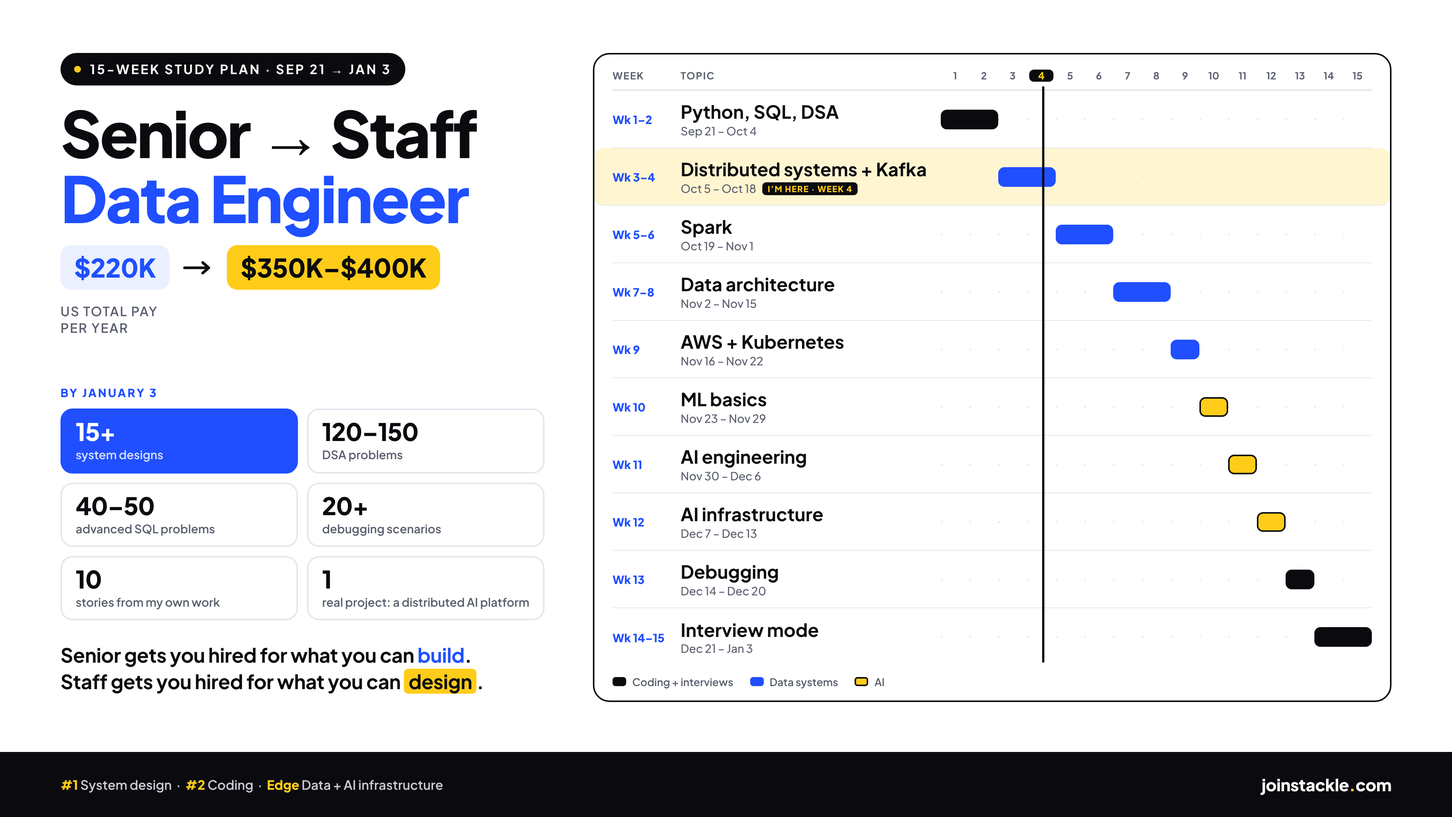
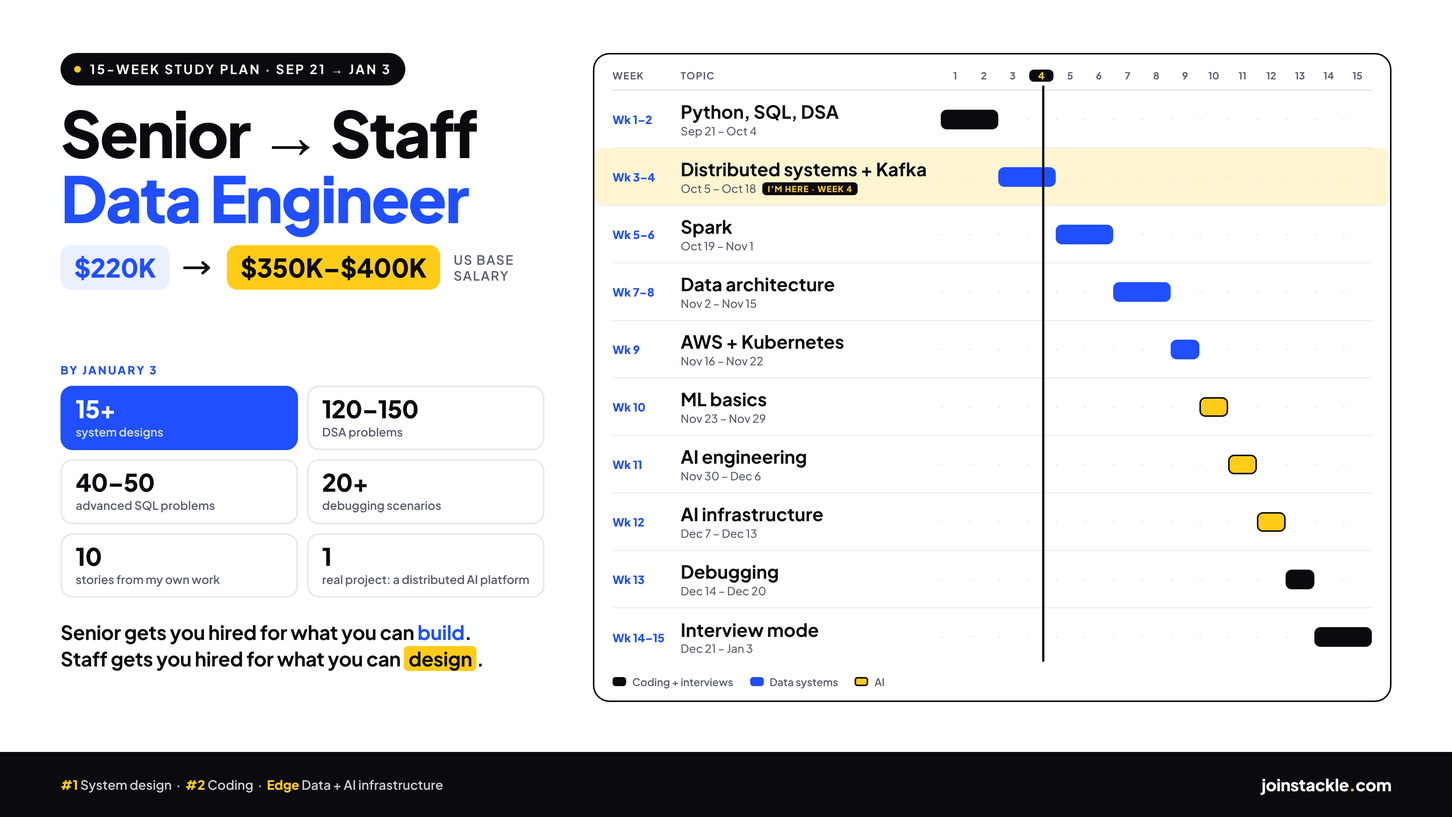
Rewrite Senior to Staff script with sourced pay and Hormozi rhythm
Pay is framed as base salary (Levels.fyi Meta E5 average base and the
posted ranges), and the roadmap image label now says base salary.

Claude-Session: https://claude.ai/code/session_01J7uUwrP8LBDCmbx24NcmAV

Changed region(s): [[0.0312, 0.4343, 0.375, 0.8685], [0.0312, 0.3722, 0.0938, 0.4032], [0.3125, 0.3102, 0.3438, 0.3412]]

diff --git a/stackle-video/source/roadmap-staff-de.html b/stackle-video/source/roadmap-staff-de.html
@@ -98,7 +98,7 @@ body.wide footer{padding:0 80px;height:86px}
     <span class="chip from">$220K</span>
     <svg viewBox="0 0 40 20"><path d="M2 10h32M26 3l8 7-8 7" stroke="#0B0B0F" stroke-width="3.5" fill="none" stroke-linecap="round" stroke-linejoin="round"/></svg>
     <span class="chip to">$350K–$400K</span>
-    <span class="tag">US total pay<br>per year</span>
+    <span class="tag">US base<br>salary</span>
   </div>
 </div>
 

diff --git a/stackle-video/scripts/senior-to-staff-de-plan.md b/stackle-video/scripts/senior-to-staff-de-plan.md
@@ -1,6 +1,12 @@
 # Senior to Staff Data Engineer, My 15-Week Plan: script
 
-DRAFT, numbers and job postings pending research.
+{{HEADER}}
+
+---
+
+{{BRIEF}}
+
+---
 
 ## Script
 
@@ -8,7 +14,9 @@ DRAFT, numbers and job postings pending research.
 
 **[On camera]**
 
-A staff data engineer in the US can earn {{STAFF_PAY}} a year, and a senior data engineer earns about {{SENIOR_PAY}}. I'm a senior data engineer at Meta, and I'm studying for that jump right now. In this video, I'm going to show you my exact fifteen-week plan, the three jobs I'm preparing for, how I'm rewriting my resume for them, and how I'm getting my interview stories ready. And you can copy all of it.
+I'm a senior data engineer at Meta, where the average base salary at my level is about two hundred twenty thousand dollars a year. The staff-level data jobs I'm going after at AI companies pay three hundred fifty to four hundred thousand in base salary, and some pay more. So I'm studying for that jump right now. In this video, I'm going to show you my fifteen-week plan, the three real jobs I'm preparing for, how I'm rewriting my resume for them, and how I'm getting my interview stories ready. You can copy all of it.
+
+**[Card beside you: "Senior data engineer, Meta: about $220K base" → "Staff data jobs at AI companies: $350K–$400K+ base"]**
 
 ### Intro
 
@@ -22,29 +30,33 @@ If you are new here, I am Chris. I have worked in data engineering for more than
 
 **[On camera]**
 
-So let's start with why this jump is so big, because staff isn't the same job with a bigger number. I've been on the hiring side for years, and the simplest way I can put it is this. Senior gets you hired for what you can build. Staff gets you hired for what you can design.
+So let's start with why this jump is so big, because staff isn't the same job with a bigger number. I've interviewed a lot of engineers, and the simplest way I can put it is this. Senior gets you hired for what you can build. Staff gets you hired for what you can design.
 
 **[PAUSE] [Graphic 1, full screen: "Senior: hired for what you can build" beside "Staff: hired for what you can design"]**
 
-A senior data engineer is someone who takes a hard problem and builds it well, like a pipeline that moves a billion rows a day without breaking. A staff data engineer decides how all the pipelines should fit together, across many teams, before anyone writes the code. {{LADDER_QUOTE}}
+A senior data engineer takes a hard problem and builds it well, like a pipeline that moves a billion rows a day without breaking. A staff data engineer decides how all the pipelines should fit together, across many teams, before anyone writes the code.
+
+**[PAUSE] [Graphic 2, full screen: Dropbox career framework, "Staff Data Engineer: I set the multi-year, multi-team technical and data strategy"]**
+
+And you don't have to take my word for it. Dropbox publishes its engineering levels online, and its staff data engineer level says, "I set the multi-year, multi-team technical and data strategy." Multi-year and multi-team are the words that matter there. A senior engineer usually owns one team's goals for the next six months to a year.
 
 **[PAUSE]**
 
 **[Card beside you: "3 teams, 3 copies of the same customer data"]**
 
-So let's say three teams each build their own copy of the same customer data. A senior engineer builds a really good copy for their own team. A staff engineer notices there are three copies, designs one shared table all three can use, and gets all three teams to agree on it. And so the work moves from writing the code to making the decision.
+So let's say three teams each build their own copy of the same customer data. A senior engineer builds a really good copy for their own team. A staff engineer notices there are three copies. They design one shared table, and they get all three teams to agree to use it. And so the hard part isn't the code anymore. It's the decision.
 
-**[PAUSE] [Graphic 2, full screen: "#1 System design", "#2 Coding", "How I stand out: data + AI infrastructure"]**
+**[PAUSE] [Graphic 3, full screen: "#1 System design", "#2 Coding", "How I stand out: data + AI infrastructure"]**
 
-And that's why my plan has a clear order of priorities. Number one is system design, because that's the skill that changes the most between senior and staff. Number two is coding, because you still have to pass the coding rounds, and nobody skips those. And the way I plan to stand out is data and AI infrastructure, because {{AI_INFRA_REASON}}.
+And so my plan has a clear order of priorities. Number one is system design, because that's the skill that changes the most between senior and staff. Number two is coding, because you still have to pass the coding rounds. Nobody gets to skip those. And the way I plan to stand out is data and AI infrastructure. The AI companies are hiring data engineers to build the pipelines that feed their models, and I'll show you three of those jobs later.
 
 **[PAUSE]**
 
 ### Part 2: The fifteen-week plan
 
-**[PAUSE] [Graphic 3, full screen: the 15-week roadmap, 16:9 version (roadmap-staff-de-16x9.png)]**
+**[PAUSE] [Graphic 4, full screen: the 15-week roadmap (roadmap-staff-de-16x9.png)]**
 
-So here's the plan. It runs fifteen weeks, from September twenty-first to January third, and right now I'm in week four. I've split it into four blocks, and I'll take you through them in order.
+So here's the plan. It runs fifteen weeks, from September twenty-first to January third. Right now, I'm in week four. I've split the plan into four blocks.
 
 **[PAUSE]**
 
@@ -52,27 +64,27 @@ So here's the plan. It runs fifteen weeks, from September twenty-first to Januar
 
 **[Card beside you: "Weeks 1–2: Python, SQL, DSA"]**
 
-Block one is the coding base, in weeks one and two, and it's Python, SQL, and DSA. DSA just means data structures and algorithms, which are the coding puzzles most big companies still ask, like merging a list of meetings that overlap. I put coding first because it fades fast when you stop. And so I start the daily habit in week one, and I keep doing a few problems every week until the end.
+Block one is the coding base, in weeks one and two. That's Python, SQL, and DSA. DSA just means data structures and algorithms, which are the coding puzzles big companies still ask, like merging a list of meetings that overlap. For pure data engineer jobs, the coding round is often lighter, with more lists and dictionaries than hard puzzles. But two of my three target jobs have "software engineer" in the title, so I'm preparing for the harder version. And because coding fades fast when you stop, I keep doing a few problems every week until the end.
 
 #### Block two: Data systems (weeks 3 to 9)
 
-**[PAUSE] [Graphic 4, full screen: weeks 3 to 9 highlighted on the roadmap, with one line under each: "Kafka: moves events between systems as they happen", "Spark: splits huge data jobs across many machines", "Data architecture: how the whole platform fits together", "AWS: Amazon's cloud", "Kubernetes: runs and restarts your programs across many machines"]**
+**[PAUSE] [Graphic 5, full screen: weeks 3 to 9 highlighted on the roadmap, one line under each: "Kafka: moves events between systems as they happen", "Spark: splits huge data jobs across many machines", "Data architecture: how the whole platform fits together", "AWS: Amazon's cloud", "Kubernetes: runs your programs and restarts them when they crash"]**
 
-Block two is data systems, in weeks three to nine, and it's the biggest block, at seven weeks. Weeks three and four are distributed systems and Kafka. A distributed system just means many machines working as one, so if one machine dies, the work keeps going. Kafka is a tool that moves streams of events between systems as they happen, like every click on a website.
+Block two is data systems, in weeks three to nine. It's the biggest block, at seven weeks. Weeks three and four are distributed systems and Kafka. A distributed system just means many machines working as one, so if one machine dies, the work keeps going. Kafka is a tool that moves streams of events between systems as they happen, like every click on a website.
 
-Weeks five and six are Spark. Spark is a tool that processes huge amounts of data by splitting the work across many machines. Weeks seven and eight are data architecture, which is how you design the whole platform: where data lands, how it's organised, and who gets to use it. And week nine is AWS and Kubernetes. AWS is Amazon's cloud, and Kubernetes is a tool that runs your programs across many machines and restarts them when they crash.
+Weeks five and six are Spark, which is a tool that processes huge amounts of data by splitting the work across many machines. Weeks seven and eight are data architecture. Data architecture is how you design the whole platform: where data lands, how it's organised, and who gets to use it. Week nine is AWS and Kubernetes. AWS is Amazon's cloud. Kubernetes runs your programs across many machines and restarts them when they crash.
 
 **[PAUSE]**
 
 **[On camera]**
 
-Block two gets seven weeks because this is what staff system design questions are made of. If an interviewer asks you to design a platform that handles a million events a second, you need Kafka, Spark, and the architecture all in your head at the same time.
+Block two gets seven weeks because staff design questions are built from exactly these pieces. Let's say an interviewer asks you to design a platform that takes in a million events a second. You need Kafka, Spark, and the architecture in your head at the same time. If one piece is weak, the whole design falls apart.
 
 #### Block three: AI (weeks 10 to 12)
 
-**[PAUSE] [Graphic 5, full screen: weeks 10 to 12 highlighted, with "ML basics: how models learn from data", "AI engineering: building products on top of large language models", "AI infrastructure: the data systems that feed and serve AI"]**
+**[PAUSE] [Graphic 6, full screen: weeks 10 to 12 highlighted, with "ML basics: how models learn from data", "AI engineering: building products on top of large language models", "AI infrastructure: the data systems that feed and serve the model"]**
 
-Block three is AI, in weeks ten to twelve. Week ten is machine learning basics, which is how models learn from data, like an inbox that learns which emails are spam. Week eleven is AI engineering, which means building products on top of large language models, the models behind tools like ChatGPT, Claude, and Gemini. And week twelve is AI infrastructure, which is where a data engineer really fits in. AI infrastructure just means the data systems around the model: the pipelines that feed it data, the systems that serve it, and the checks that stop bad data from reaching it.
+Block three is AI, in weeks ten to twelve. Week ten is machine learning basics, which is how models learn from data, like an inbox that learns which emails are spam. Week eleven is AI engineering. AI engineering means building products on top of large language models, which are the models behind ChatGPT, Claude, and Gemini. Week twelve is AI infrastructure, and this is where a data engineer really fits in. AI infrastructure just means the data systems around the model: the pipelines that feed it, the systems that serve it, and the checks that stop bad data from reaching it.
 
 **[PAUSE]**
 
@@ -80,45 +92,45 @@ Block three is AI, in weeks ten to twelve. Week ten is machine learning basics, 
 
 **[Card beside you: "Week 13: Debugging", "Weeks 14–15: Interview mode"]**
 
-Block four is getting ready to perform, in weeks thirteen to fifteen. Week thirteen is debugging, which means practising how you find and fix a broken system, like a pipeline that ran fine yesterday and is three hours late today. Weeks fourteen and fifteen are interview mode, which means full mock interviews, out loud, with a timer running.
+Block four is getting ready to perform, in weeks thirteen to fifteen. Week thirteen is debugging. Debugging practice means learning how you find and fix a broken system, like a pipeline that ran fine yesterday and is three hours late today. Weeks fourteen and fifteen are interview mode. Interview mode means full mock interviews, out loud, with a timer running.
 
 **[On camera]**
 
-And to be honest, fifteen weeks is tight, and if something slips, I'm fine stretching it to twenty. The order matters more than the dates.
+Now, fifteen weeks is tight. If something slips, I'm fine stretching the plan to twenty. The order matters more than the dates.
 
 ### Part 3: The numbers I'm aiming for
 
-**[PAUSE] [Graphic 6, full screen: the six targets: "120–150 DSA problems", "40–50 advanced SQL problems", "15+ system designs", "20+ debugging scenarios", "10 stories from my own work", "1 real project: a distributed AI platform"]**
+**[PAUSE] [Graphic 7, full screen: the six targets: "120–150 DSA problems", "40–50 advanced SQL problems", "15+ system designs", "20+ debugging scenarios", "10 stories from my own work", "1 real project: a distributed AI platform"]**
 
-By January third, here's what I want done. That's one hundred twenty to one hundred fifty DSA problems, forty to fifty advanced SQL problems, fifteen or more system designs, twenty or more debugging scenarios, ten stories from my own work, and one real project, which is a distributed AI platform.
+By January third, here's what I want done. That's one hundred twenty to one hundred fifty DSA problems and forty to fifty advanced SQL problems. It's fifteen or more system designs and twenty or more debugging scenarios. And it's ten stories from my own work, plus one real project, which is a distributed AI platform.
 
 **[PAUSE]**
 
-**[PAUSE] [Graphic 7, full screen: the weekly math, labelled "Let's say": "150 DSA ÷ 15 weeks = 10 a week = 2 a weekday", "45 SQL ÷ 15 weeks = 3 a week", "15 designs ÷ 15 weeks = 1 a week", "2 problems × 45 minutes = 1.5 hours a day"]**
+**[PAUSE] [Graphic 8, full screen: the weekly math, labelled "Let's say", one line at a time: "150 DSA ÷ 15 weeks = 10 a week = 2 a weekday", "45 SQL ÷ 15 weeks = 3 a week", "15 designs ÷ 15 weeks = 1 a week", "2 problems × 45 minutes = 1.5 hours a day = 7.5 hours a week", then "Average prep time in a 2025 study: about 6.5 hours a week, in total"]**
 
-Now those numbers sound like a lot, so let me do the math with you. A hundred fifty DSA problems over fifteen weeks is ten a week, which is two a day on weekdays. Forty-five SQL problems is three a week, and fifteen system designs is one a week. Let's say a DSA problem takes you forty-five minutes. Two a day is an hour and a half, and that's very doable, right? It just has to happen every day.
+The targets sound like a lot, so let's do the math. A hundred fifty DSA problems over fifteen weeks is ten a week. That's two a day on weekdays. Forty-five SQL problems is three a week, and fifteen system designs is one a week. Now let's say a DSA problem takes you forty-five minutes. Two a day is an hour and a half, which is seven and a half hours a week on DSA alone. For comparison, a 2025 study of one hundred thirty-one people preparing for tech interviews found the average was about six and a half hours a week, in total. So yes, this plan is more than most people do. That's the point.
 
 **[PAUSE]**
 
 **[On camera]**
 
-And look at which number is the highest priority. It's not the hundred fifty problems. It's the fifteen system designs, because that's the skill staff interviews weigh the most. {{DESIGN_WEIGHT_SOURCE}} The twenty debugging scenarios are the ones most people skip, and I think that's a mistake, because a staff engineer is the person a team calls when production breaks.
+But look at which number matters most. It's not the hundred fifty problems. It's the fifteen system designs, because from the hiring side, the design round is usually what decides if you come in at senior or at staff. And the twenty debugging scenarios are the ones most people skip. I think that's a mistake, because a staff engineer is the person the team calls when production breaks.
 
 ### Part 4: Building it in public
 
 **[On camera]**
 
-Now here's what I'm doing differently this time. I'm not just going to study DSA and Kafka. I'm going to build a project around each one and put it on GitHub, so at the end I have a portfolio I can show, not just a list of things I studied.
+Now here's the part most people skip. I'm not just going to study DSA and Kafka. I'm going to build a project for each one and put it on GitHub. And so at the end, I have a portfolio anyone can open, not just a list of things I studied.
 
-**[PAUSE] [Graphic 8, full screen: GitHub repos stacking up week by week: "dsa-practice", "kafka-events", "spark-jobs", then all three arrows pointing into "distributed-ai-platform"]**
+**[PAUSE] [Graphic 9, full screen: GitHub repos stacking up week by week: "dsa-practice", "kafka-events", "spark-jobs", then arrows from all three into "distributed-ai-platform"]**
 
-Number one is the DSA repo. Every problem I solve goes in, with a short note on the pattern it uses, so the repo shows the habit, not just the answers. Number two is the Kafka project, which is a small system that streams events, handles the same event arriving twice, and keeps going when a machine fails. And the Spark work goes in the same way.
+Number one is the DSA repo. Every problem I solve goes in, with a short note on the pattern it uses. That way the repo shows the habit, not just the answers. Number two is the Kafka project. It's a small system that streams events, handles the same event arriving twice, and keeps running when a machine fails. The Spark work goes in the same way.
 
 **[PAUSE]**
 
-**[PAUSE] [Graphic 9, full screen: the distributed AI platform: "Kafka brings data in as it happens" → "Spark cleans and processes it" → "AI layer turns it into something a model can search and answer from" → "All running on Kubernetes"]**
+**[PAUSE] [Graphic 10, full screen: the distributed AI platform, built up one box at a time: "Kafka brings data in as it happens" → "Spark cleans and processes it" → "The AI layer turns it into something a model can search and answer from", all inside a box labelled "Running on Kubernetes"]**
 
-And then the pieces join into the one real project, the distributed AI platform. Kafka brings data in as it happens, and Spark cleans and processes it. The AI layer turns that data into something a model can search and answer from, and all of it runs on Kubernetes. And so by January, my GitHub isn't fifteen random folders. It's one system I can walk an interviewer through, which is exactly what a staff design round asks you to do.
+Then all the pieces join into one real project, the distributed AI platform. Kafka brings data in as it happens. Spark cleans and processes it. The AI layer turns that data into something a model can search and answer from. And all of it runs on Kubernetes. So by January, my GitHub isn't fifteen random folders. It's one system I can walk an interviewer through, and that's exactly what a staff design round asks for.
 
 **[PAUSE]**
 
@@ -126,67 +138,67 @@ And then the pieces join into the one real project, the distributed AI platform.
 
 **[On camera]**
 
-Next is the resume, and I'm not writing it for "staff data engineer" in general. I'm writing it for three real jobs that are open right now, so let me show you them. The pay ranges are copied straight from the postings, and they're base salary, which just means the pay before stock and bonus.
+Next is the resume. I'm not writing it for "staff data engineer" in general. I'm writing it for three real jobs that are open right now, so let me show you them. The pay ranges are copied straight from the postings. They're base salary, which just means the pay before stock and bonus.
 
-**[PAUSE] [Graphic 10, full screen: the Anthropic posting: "Staff+ Software Engineer, Data Infrastructure", "$405,000–$485,000 base salary", with three lines highlighted: "10+ years building data infrastructure", "Can set technical direction for a team, not just execute within it", "petabyte-scale data"]**
+**[PAUSE] [Graphic 11, full screen: the Anthropic posting: "Staff+ Software Engineer, Data Infrastructure", "$405,000–$485,000 base salary", with three lines highlighted: "10+ years ... building data infrastructure", "Can set technical direction for a team, not just execute within it", "petabyte-scale data"]**
 
-The first one is at Anthropic, and it's called Staff Plus Software Engineer, Data Infrastructure. The base salary is four hundred five to four hundred eighty-five thousand dollars a year. It asks for ten or more years building data infrastructure, and it says you should be able to set technical direction for a team, not just execute within it. That one line is the whole difference between senior and staff, and the company wrote it down for you.
+The first one is at Anthropic. It's called Staff Plus Software Engineer, Data Infrastructure, and the base salary is four hundred five to four hundred eighty-five thousand dollars a year. It asks for ten or more years building data infrastructure. And it says you should be able to "set technical direction for a team, not just execute within it." That one line is the difference between senior and staff, and the company wrote it down for you.
 
-**[PAUSE] [Graphic 11, full screen: the OpenAI posting: "Software Engineer, Data Infrastructure", "$266K–$445K + equity", with three lines highlighted: "some of the largest Spark compute fleets in production", "streaming platforms on Kafka and Flink", "debugging large-scale distributed systems"]**
+**[PAUSE] [Graphic 12, full screen: the OpenAI posting: "Software Engineer, Data Infrastructure", "$266K–$445K + equity", with three lines highlighted: "some of the largest Spark compute fleets in production", "streaming platforms on Kafka and Flink", "debugging large-scale distributed systems"]**
 
-The second one is at OpenAI, and it's Software Engineer, Data Infrastructure. The salary range is two hundred sixty-six to four hundred forty-five thousand, and equity comes on top. The posting talks about running some of the largest Spark systems in production and streaming on Kafka and Flink, which is another streaming tool. And it asks for experience debugging large distributed systems. So that one posting covers weeks three to six and week thirteen of my plan, right?
+The second one is at OpenAI, and it's called Software Engineer, Data Infrastructure. The salary range is two hundred sixty-six to four hundred forty-five thousand, with equity on top. The posting talks about running some of the largest Spark systems in production, and streaming on Kafka and Flink. Flink is another streaming tool. The posting also asks for experience debugging large distributed systems. So this one job covers weeks three to six and week thirteen of my plan.
 
-**[PAUSE] [Graphic 12, full screen: the Google posting: "Staff Software Engineer, AI Foundry Data Quality and Training Data", "$207K–$300K + 20% bonus target + equity", with three lines highlighted: "training data pipelines for Large Language Models", "hundreds of billions of documents", "2 years of experience in a people management, supervision/team leadership role"]**
+**[PAUSE] [Graphic 13, full screen: the Google posting: "Staff Software Engineer, AI Foundry Data Quality and Training Data", "$207K–$300K + 20% bonus target + equity", with three lines highlighted: "training data pipelines for Large Language Models", "hundreds of billions of documents", "2 years of experience in a people management, supervision/team leadership role"]**
 
-The third one is at Google, and it's Staff Software Engineer, AI Foundry Data Quality and Training Data. The base is two hundred seven to three hundred thousand, plus a twenty percent bonus target and equity. The job is building the pipelines that clean training data for large language models, across hundreds of billions of documents. That's the AI infrastructure week of my plan. It also asks for two years of leading people, which is a good reminder to read every line of a posting before you apply.
+The third one is at Google. It's called Staff Software Engineer, AI Foundry Data Quality and Training Data. The base is two hundred seven to three hundred thousand, plus a twenty percent bonus target and equity. The job is building the pipelines that clean training data for large language models, across hundreds of billions of documents. That's the AI infrastructure week of my plan. It also asks for two years of leading people. So read every line of a posting before you apply.
 
 **[PAUSE]**
 
 **[On camera]**
 
-And notice that two of those three jobs aren't called "data engineer" at all. At the staff level, a lot of data jobs are called "software engineer, data infrastructure." And so if you only search for "data engineer," you'll miss some of the best-paid roles. In fact, if you search Google's careers site for "staff data engineer" right now, you get zero results.
+And notice something about those titles. Two of the three jobs aren't called "data engineer" at all. At the staff level, a lot of data jobs are called "software engineer, data infrastructure." If you only search for "data engineer," you'll miss them. In fact, if you search Google's careers site for "staff data engineer" right now, you get zero results.
 
-**[PAUSE] [Graphic 13, full screen: what all three postings ask for, each mapped to the plan: "Python + SQL → weeks 1–2", "Spark or distributed processing → weeks 3–6", "Designing pipelines at scale + data modeling → weeks 7–8", "Cloud + Kubernetes → week 9", "Data for AI → weeks 10–12", "Debugging and reliability → week 13", "Setting direction + working across teams → your stories"]**
+**[PAUSE] [Graphic 14, full screen: what all three postings ask for, each mapped to the plan: "Python + SQL → weeks 1–2", "Spark and distributed processing → weeks 3–6", "Pipelines at huge scale + data modeling + data quality → weeks 7–8", "Cloud + Kubernetes → week 9", "Data for AI → weeks 10–12", "Debugging and reliability → week 13", "Setting direction + working across teams → your stories"]**
 
-Now when I put the three side by side, the same things show up in all of them. They all want Python and SQL, Spark or something like it, pipelines designed for huge scale, data modeling, data quality, and data for AI. And they all want someone who sets technical direction and works well with other teams. Every one of those maps to a week of the plan, and the last one maps to your stories, which I'll get to in a minute.
+Now put the three postings side by side. They all want Python and SQL, Spark or something like it, pipelines built for huge scale, data modeling, data quality, and data for AI. And they all want someone who sets technical direction and works well with other teams. Every one of those maps to a week of the plan. The last one maps to your stories, and I'll get to those in a minute.
+
+**[PAUSE]**
 
 **[On camera]**
 
 So here's how I'm rewriting my resume, in three rules.
 
-**[Card beside you: "1 Match every requirement with proof", "2 Show the decision, not just the build", "3 Link the GitHub"]**
+**[Card beside you: "1 Match every requirement with proof", "2 Show the decision, not just the build", "3 Put the GitHub at the top"]**
 
-Number one is to match every requirement with proof. If a posting asks for experience designing large data systems, my resume needs a line that shows a system I designed, how big it was, and what changed because of it. If a requirement has no line of proof, that's a gap, and the plan has a week for it.
+Number one is to match every requirement with proof. If a posting asks for experience designing large data systems, I need a line that shows a system I designed, how big it was, and what changed because of it. If a requirement has no proof, that's a gap. And the plan has a week for it.
 
 Number two is to show the decision, not just the build. A senior resume line says what you built. A staff resume line says what you decided, and who it changed things for.
 
-**[PAUSE] [Graphic 14, full screen: "Senior line: Built a Spark pipeline that processes 2 TB a day" then "Staff line: Designed a shared data model used by 4 teams, which cut 3 duplicate pipelines and saved $X a month" (labelled "Let's say")]**
+**[PAUSE] [Graphic 15, full screen, labelled "Let's say": "Senior line: Built a Spark pipeline that processes 2 TB a day" then "Staff line: Designed a shared data model used by 4 teams, which removed 3 duplicate pipelines"]**
 
-So let's say your resume says, "Built a Spark pipeline that processes two terabytes a day." That's a good senior line. A staff line sounds more like, "Designed a shared data model used by four teams, which removed three duplicate pipelines." Same engineer, same skills, but the second line shows the decision and the reach.
+So let's say your resume says, "Built a Spark pipeline that processes two terabytes a day." That's a good senior line. A staff line sounds more like, "Designed a shared data model used by four teams, which removed three duplicate pipelines." It's the same engineer with the same skills. But the second line shows the decision and the reach.
 
 **[PAUSE]**
 
-Number three is to link the GitHub. The projects from part four go right at the top, because they prove the skills my day job might not show, like AI infrastructure.
+Number three is to put the GitHub link right at the top. The projects from part four are proof that anyone can open and check.
 
 ### Part 6: Getting your stories right
 
 **[On camera]**
 
-And the last part is the one I think most people miss, which is getting your stories right. Every big company has a behavioral round. A behavioral round just means the interview where they ask about things you've actually done, like "Tell me about a time you disagreed with another team." {{BEHAVIORAL_SOURCE}}
+And the last part is the one I think most people miss, which is getting your stories right. Every big company has a behavioral round. A behavioral round just means the interview where they ask about things you've actually done, like "Tell me about a time you disagreed with another team." And these questions take up a big part of the day. Amazon's own interview guide says each interviewer will typically ask two or three of them.
 
-**[On camera]**
+At staff level, the stories carry even more weight, because so much of the job is influence. And so I'm writing ten stories from my own work before I talk to a single recruiter.
 
-At staff level, these stories carry a lot of weight, because the job is mostly influence. And so I'm writing ten stories from my own work before I talk to a single recruiter.
+**[PAUSE] [Graphic 16, full screen: the five parts of a story: "1 The situation", "2 The decision", "3 The trade-off", "4 The result", "5 What I'd do differently"]**
 
-**[PAUSE] [Graphic 15, full screen: the five parts of a story: "1 The situation", "2 The decision", "3 The trade-off", "4 The result", "5 What I'd do differently"]**
-
-Every story gets the same five parts: the situation, the decision I made, the trade-off, the result, and what I'd do differently. A weak story is about what happened. A strong story is about what you decided and why.
+Every story gets the same five parts: the situation, the decision I made, the trade-off, the result, and what I'd do differently. A weak story is about what happened. A strong story is about what you decided, and why.
 
 **[PAUSE]**
 
-**[PAUSE] [Graphic 16, full screen: a grid of 10 stories × 5 question types: "Conflict", "Failure", "Influence without authority", "Unclear problem", "Hard technical call", with ticks showing each story covers 2 or 3 types]**
+**[PAUSE] [Graphic 17, full screen: a grid of 10 stories × 5 question types, "Conflict", "Failure", "Influence", "Unclear problem", "Hard technical call", with ticks showing each story covers 2 or 3 types]**
 
-And here's the trick. Each story should answer two or three different questions. Let's say you have a story about a pipeline that kept failing, where you had to convince another team to change their data. That one story answers "Tell me about a failure", "Tell me about a conflict", and "Tell me about influencing without authority." And so ten good stories can cover almost any question they ask.
+And here's the trick. Each story should answer two or three different questions. Let's say you have a story about a pipeline that kept failing, and you had to convince another team to change their data. That one story answers "Tell me about a failure." It answers "Tell me about a conflict." And it answers "Tell me about a time you influenced people who don't report to you." So ten good stories can cover almost anything they ask.
 
 **[PAUSE]**
 
@@ -194,16 +206,20 @@ And here's the trick. Each story should answer two or three different questions.
 
 **[On camera]**
 
-So here's your one task for this week. Write down one story from your own work using those five parts: the situation, the decision, the trade-off, the result, and what you'd do differently. It'll take you about thirty minutes. Most people won't do it, because they think they'll remember the story in the interview, and then they ramble. If you write it now, you're already ahead.
+So here's your one task for this week. Write down one story from your own work, using those five parts. It'll take about thirty minutes. Most people won't do it. They think they'll remember the story in the interview, and then they ramble. If you write it down now, you're already ahead of them.
 
 ### Call to action
 
 **[PAUSE] [CTA motion graphic, full screen: cta.mp4]**
 
-If you want help building your own plan, book a free fifteen-minute career call with me, and the link is in the description. And if you want a structured path with real projects and feedback, the Stackle Data Engineering Masterclass is linked there too.
+If you want help building your own plan, book a free fifteen-minute career call with me. The link is in the description. And if you want a structured path with real projects and feedback, the Stackle Data Engineering Masterclass is linked there too.
 
 **[PAUSE]**
 
 **[On camera]**
 
-I'm in week four right now. Tell me in the comments, which week of this plan would be the hardest for you?
+I'm in week four right now. Tell me in the comments: which week of this plan would be the hardest for you?
+
+---
+
+{{TAIL}}
